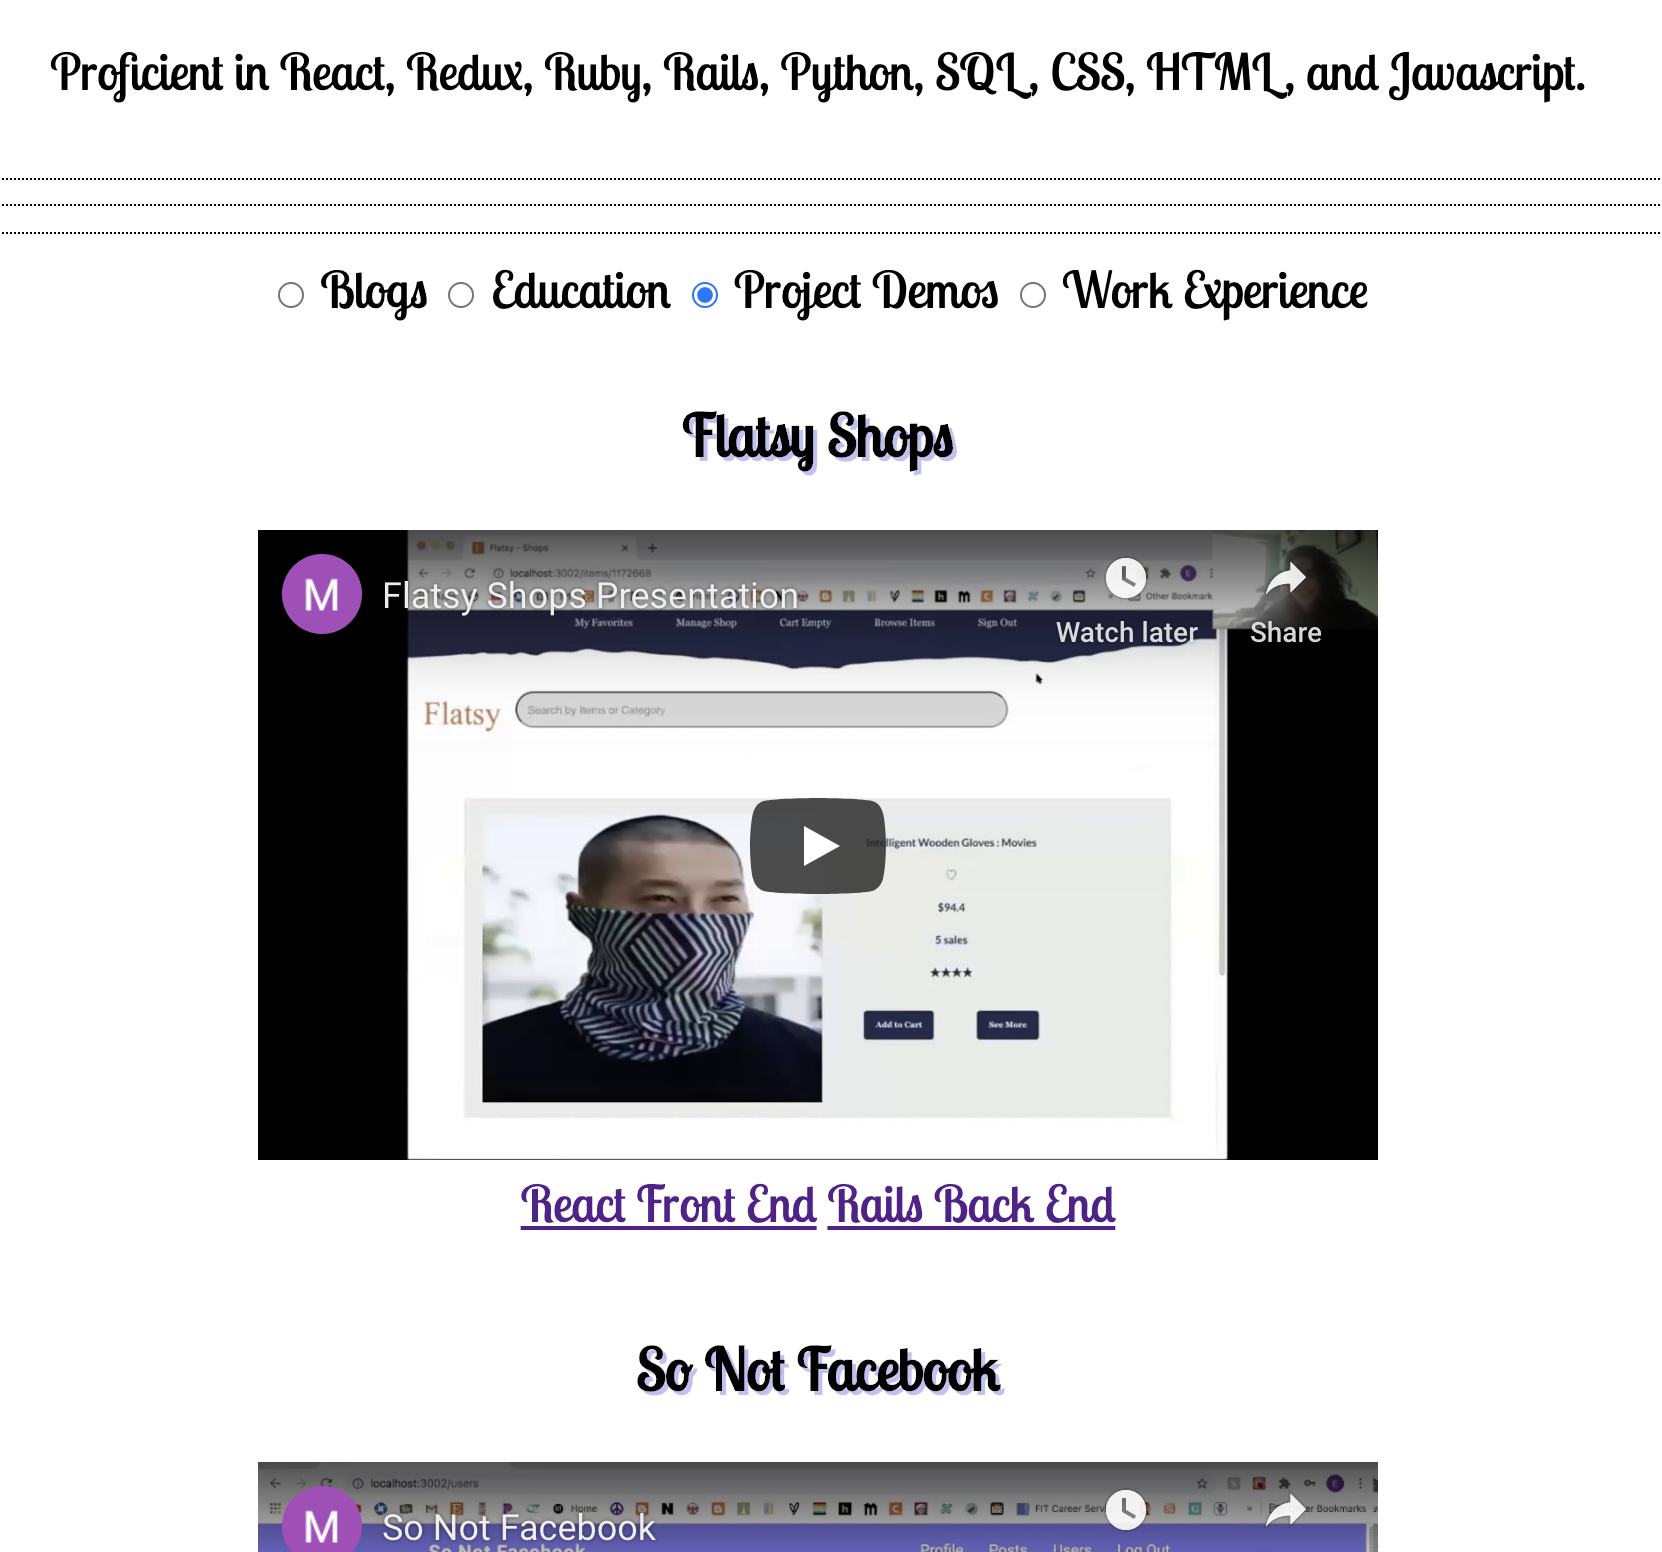
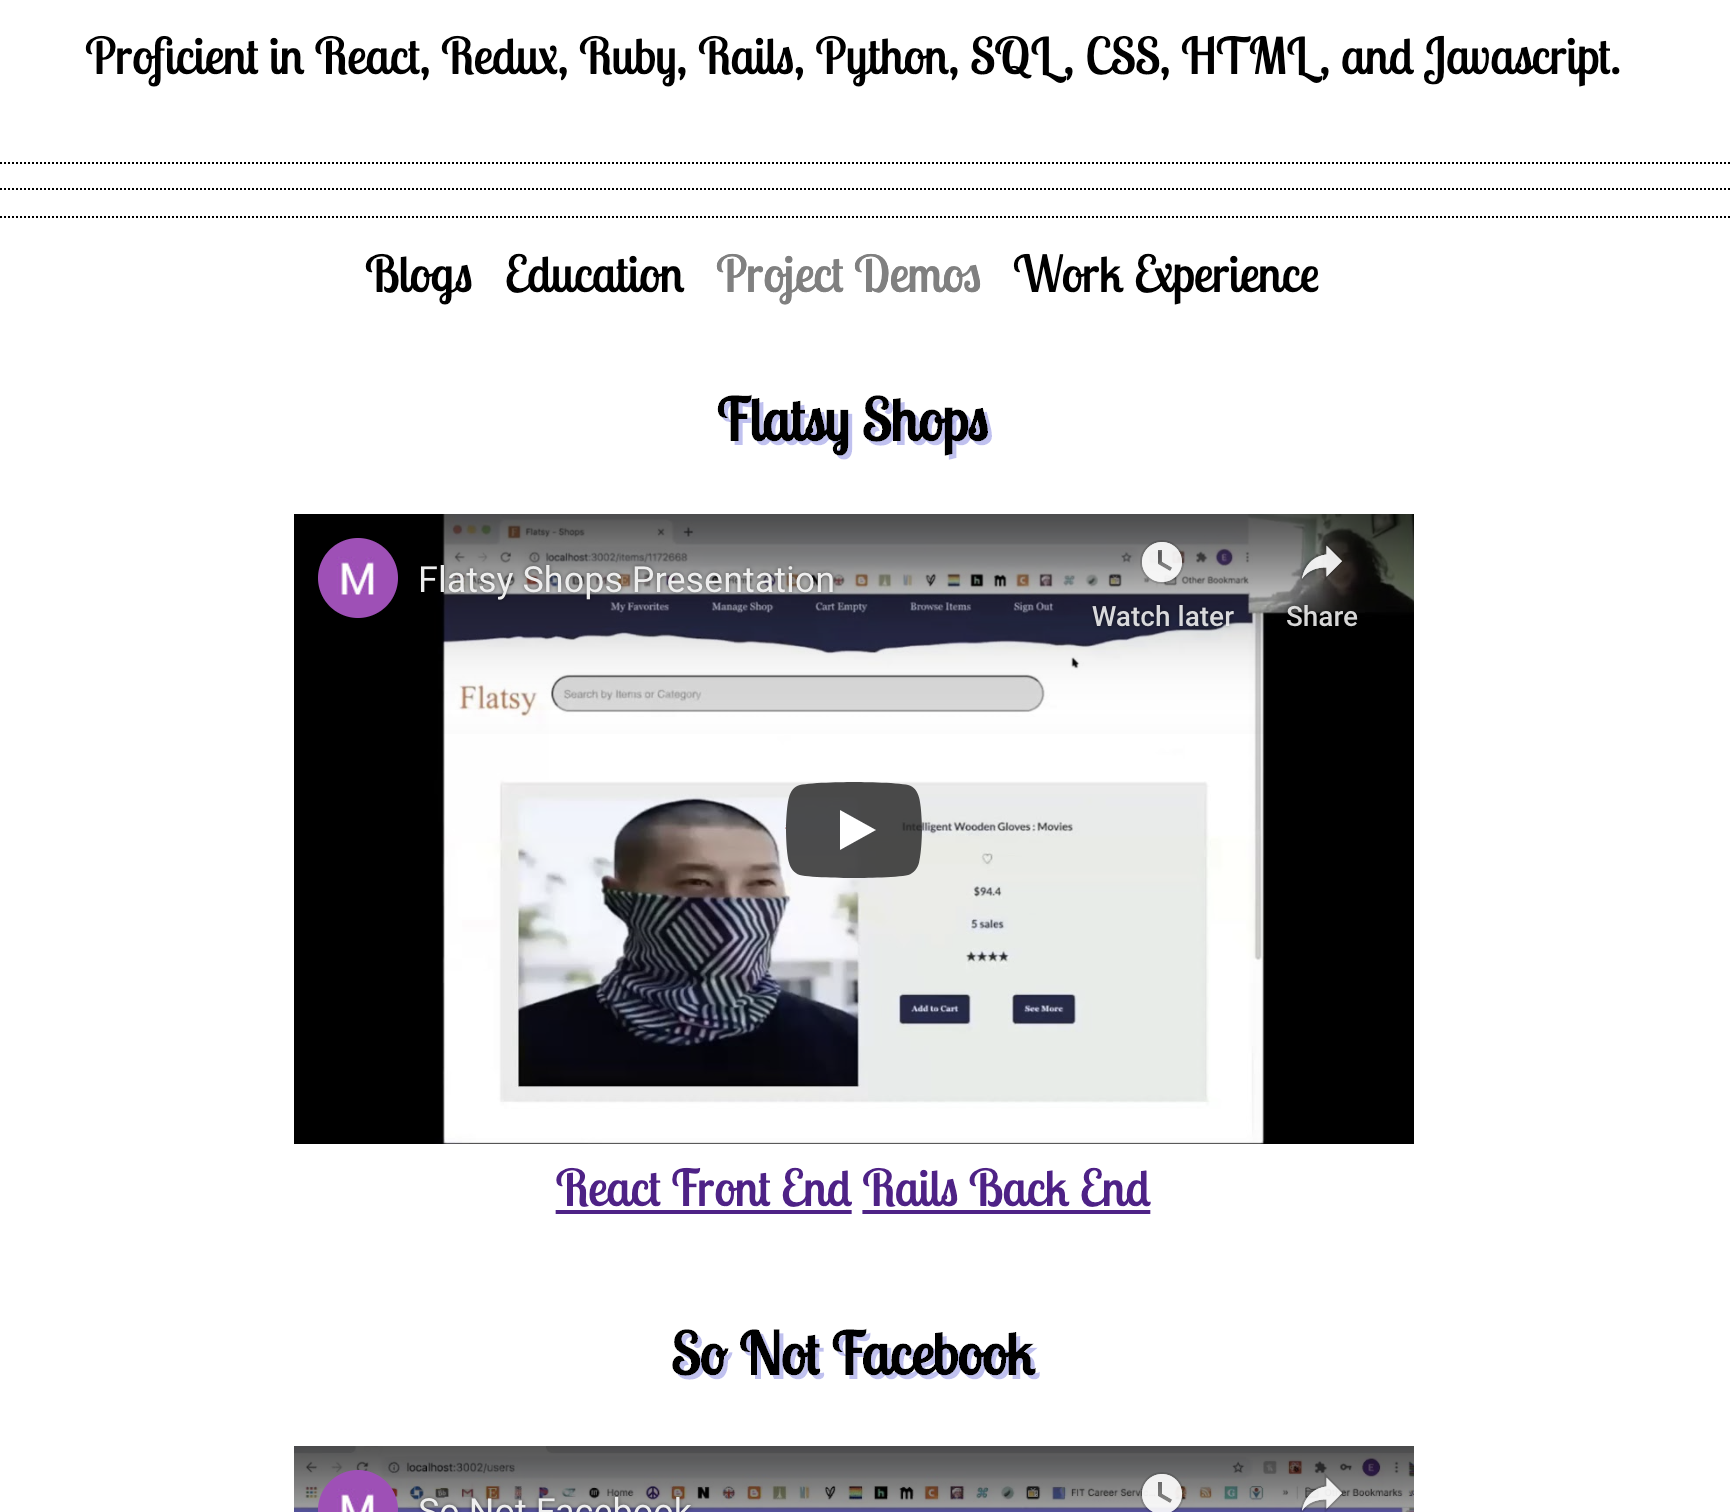
fibAdded

diff --git a/index.js b/index.js
@@ -4,11 +4,9 @@ document.addEventListener('DOMContentLoaded', function(){
     const demoInput = document.querySelector('#video')
     const edInput = document.querySelector('#ed')
     const workInput = document.querySelector('#work')
-    const algoInput = document.querySelector('#algos')
     const buttons = document.querySelector('#buttons')
 
     demoInput.style.color = 'gray'
-
 
     buttons.addEventListener('click', (e) => {
         e.target.style.color = 'gray';
@@ -17,31 +15,21 @@ document.addEventListener('DOMContentLoaded', function(){
             blogInput.style.color = '#000000';
             edInput.style.color = '#000000';
             workInput.style.color = '#000000';
-            algoInput.style.color = '#000000';
         } else if (e.target.id === 'blogs'){
             container.innerHTML = myBlogs
             edInput.style.color = '#000000';
             workInput.style.color = '#000000';
             demoInput.style.color = '#000000';
-            algoInput.style.color = '#000000';
         } else if (e.target.id === 'ed'){
             container.innerHTML = education
             blogInput.style.color = '#000000';
             workInput.style.color = '#000000';
             demoInput.style.color = '#000000';
-            algoInput.style.color = '#000000';
         } else if (e.target.id === 'work'){
             container.innerHTML = work
             blogInput.style.color = '#000000';
             edInput.style.color = '#000000';
             demoInput.style.color = '#000000';
-            algoInput.style.color = '#000000';
-        } else if (e.target.id == 'algos'){
-            container.innerHTML = algoVids
-            blogInput.style.color = '#000000';
-            edInput.style.color = '#000000';
-            demoInput.style.color = '#000000';
-            workInput.style.color = '#000000';
         }
     })
 
@@ -142,6 +130,11 @@ document.addEventListener('DOMContentLoaded', function(){
         <div class="blog">
         <h3 class="title">Linked Lists Explained</h3>
         <a href="https://medium.com/@elizabeth.michael.karen/linked-lists-explained-bd2e2edbde97?sk=94a0f607a97d52faee5dca708f6aaba9" target="_blank"><img src="https://media1.giphy.com/media/2yvMb9LKQBaBW8wYGF/giphy.gif" alt='list'  width="560" height="315"/></a>
+        </div>
+
+        <div class='blog'>
+        <h3 class="title">Fibonacci Sequence Explained</h3>
+       <a href="https://medium.com/@elizabeth.michael.karen/the-fibonacci-sequence-explained-f1ba0191dcf0?sk=5cc2e3d3ce0a9bc9f930059f0257eccb" target="_blank"><img src='https://49.media.tumblr.com/tumblr_m8fvvcmL1l1rchtzko1_500.gif' alt='fib' width="560" height="315"/></a>
         </div>
 
         <div class='blog'>

diff --git a/index.html b/index.html
@@ -23,15 +23,9 @@
     <hr>
     <hr>
         <div id='buttons' class='text'>
-            <!-- <input id='algos' type='radio' value='algos'></input>
-            <label>Algorithms</label> -->
-            <!-- <input id='blogs' type='radio' value='blogs'></input> -->
             <label id='blogs'>Blogs</label>&nbsp&nbsp
-            <!-- <input id='ed' type='radio' value='education'></input> -->
             <label id='ed' >Education</label>&nbsp&nbsp
-            <!-- <input id='video' type='radio' value='videos' color='grey'></input> -->
             <label id='video'>Project Demos</label>&nbsp&nbsp
-            <!-- <input id='work' type='radio' value='work'></input> -->
             <label id='work'>Work Experience</label>&nbsp&nbsp
         </div>
     </div>
@@ -98,6 +92,8 @@
         <a href="mailto:elizabeth.michael.karen@gmail.com">Email</a>&nbsp&nbsp&nbsp
         <a href="https://www.linkedin.com/in/elizabeth-karen-213b16126/" target="_blank">LinkedIn</a>&nbsp&nbsp&nbsp
         <a href="https://github.com/Liz00000000000" target="_blank">GitHub</a>&nbsp&nbsp&nbsp
+        <!-- <a href="./Images/resume.png" download="Elizabeth Karen Resume" target="_blank">Resume</a>&nbsp&nbsp&nbsp
+        <a href="https://github.com/Liz00000000000/jsProject" target="_bank">Code</a>&nbsp&nbsp&nbsp -->
         <!-- <a href="https://github.com/Liz00000000000/jsProject" target="_blank">JavaScript Website Code</a> -->
     </div>
     <hr>

diff --git a/index.css b/index.css
@@ -8,6 +8,8 @@
     flex-direction: column; 
     text-align: center;
     text-decoration: none; 
+    margin-left: 20px;
+    margin-right: 20px;
 }
 body{
     font-size: 25px;

diff --git a/README.md b/README.md
@@ -2,6 +2,6 @@
 
 <img src='./Images/myWebsite.png' alt='me'>
 
-<h2>Radio Buttons Direct the User to Blogs, Projects, Education, and Work Expereince.</h2>
+<h2>Buttons Direct the User to Blogs, Projects, Education, and Work Expereince.</h2>
 
 <img src='./Images/radio.png' alt='radio buttons' >
